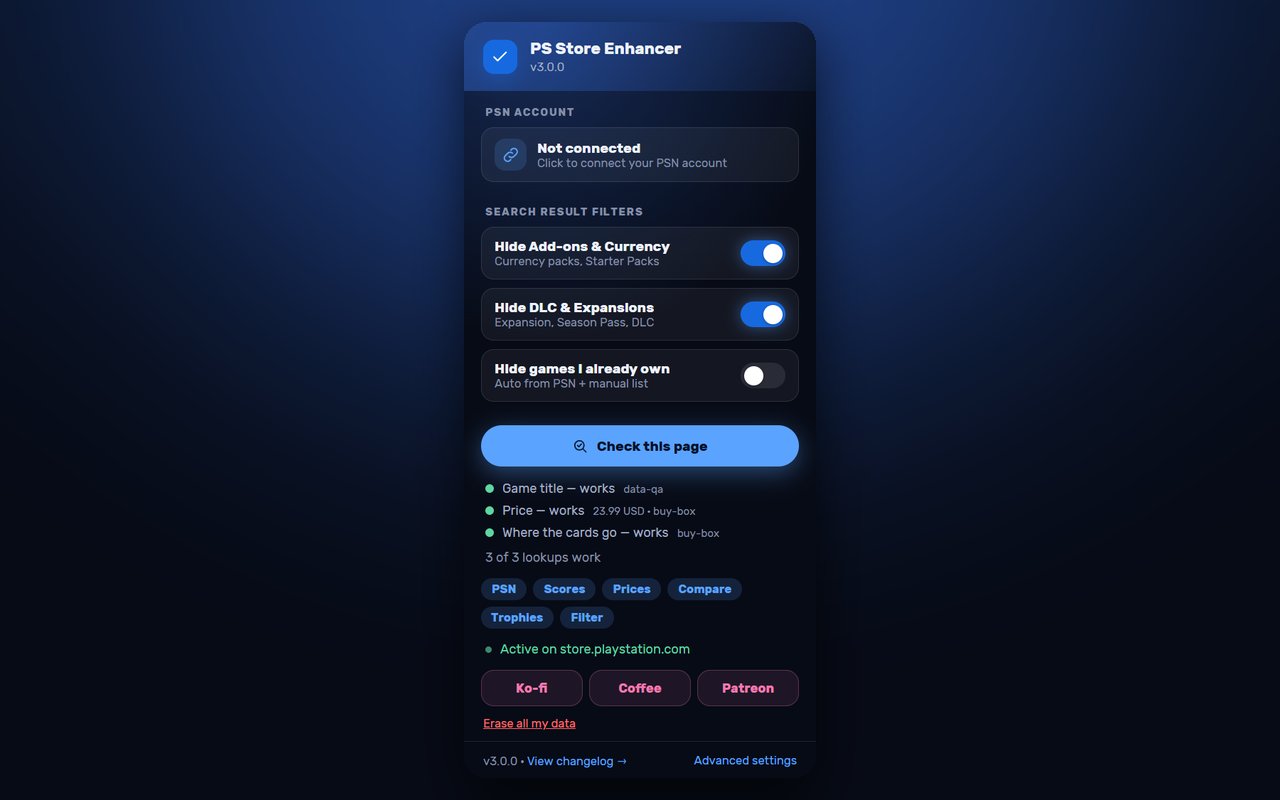
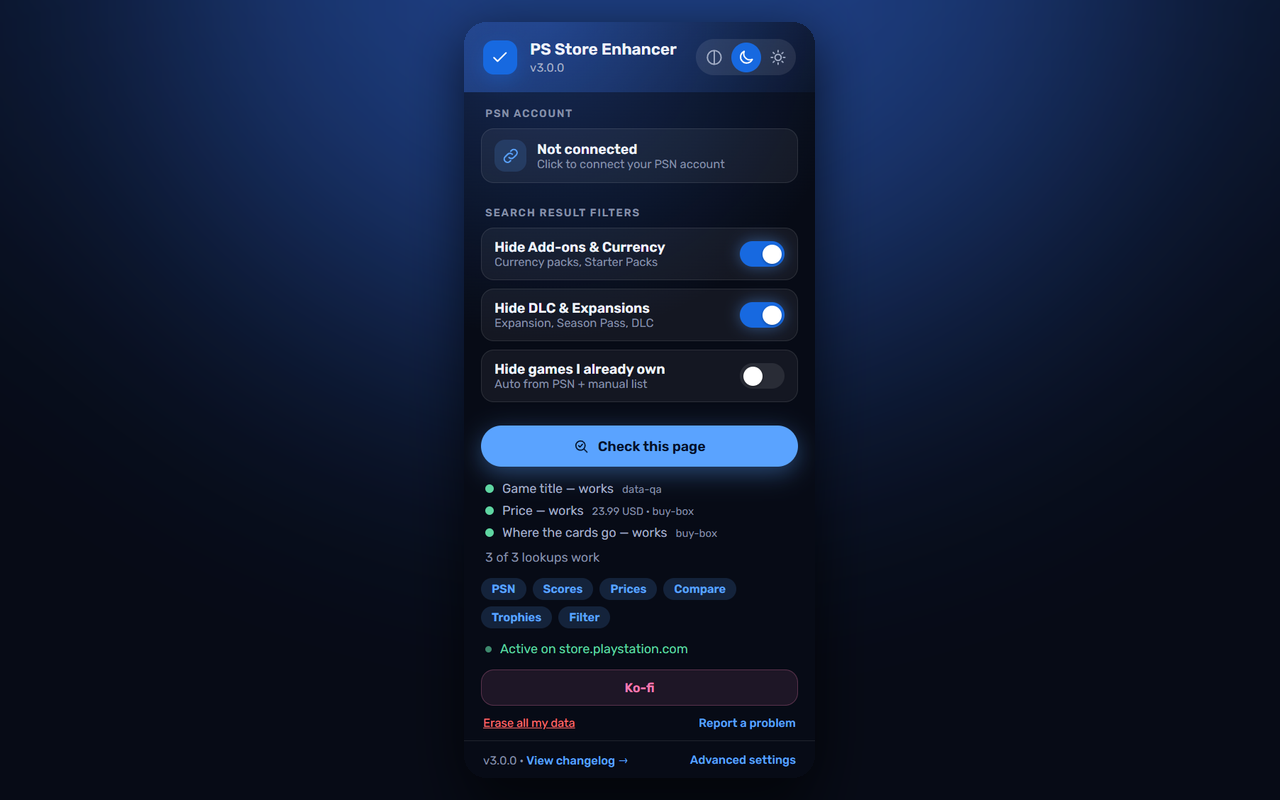
Store assets: real captures with the theme switch and the sale countdown; new promo tiles and og-image
Product page and popup screenshots (EN + HE, account menu hidden) retaken after the last UI changes. The promo
tiles and the website's og-image are redrawn in the new look around two real captures kept in assets/promo/src,
so gen_promo.py is reproducible; the old ones moved to archive/assets-pre-v3.0.0-redesign/.

diff --git a/scripts/generate-assets/gen_promo.py b/scripts/generate-assets/gen_promo.py
@@ -1,3 +1,9 @@
+"""Promo tiles and the website's og-image in the "Midnight Glass" look.
+
+The two pictures on the right are real captures of the extension (assets/promo/src/card-en.png: the Price
+Insight card on a store page; popup-en.png: the toolbar popup), so retake those two when the UI changes.
+Run from the repo root:  python scripts/generate-assets/gen_promo.py
+"""
 import sys
 import os
 ROOT = os.path.dirname(os.path.dirname(os.path.dirname(os.path.abspath(__file__))))
@@ -8,48 +14,84 @@ from PIL import ImageDraw, ImageFilter
 OUT = os.path.join(ROOT, "dist", "asset-drafts", "promo")
 os.makedirs(OUT, exist_ok=True)
 ICON_PATH = os.path.join(ROOT, "extension", "icons", "icon128.png")
+SRC = os.path.join(ROOT, "assets", "promo", "src")
+
+NAVY_BG = (7, 11, 22)       # the popup's deep navy
+GLOW = (36, 78, 168)
 
 
-def bg_with_glow(w, h):
-    canvas = new_canvas(w, h, INK)
+def backdrop(w, h):
+    """Deep navy with one soft blue glow behind the pictures (top right), like the popup and settings page."""
+    base = Image.new("RGB", (w * SS, h * SS), NAVY_BG)
+    glow = Image.new("RGB", (w * SS, h * SS), NAVY_BG)
+    d = ImageDraw.Draw(glow)
+    d.ellipse([w * SS * 0.52, -h * SS * 0.7, w * SS * 1.25, h * SS * 0.75], fill=GLOW)
+    glow = glow.filter(ImageFilter.GaussianBlur(w * SS * 0.07))
+    return Image.blend(base, glow, 0.9)
+
+
+def shot(name, height, radius=22):
+    """A real capture, scaled to `height` css px, rounded, with its own soft shadow. Returns (rgba image at SS, w, h)."""
+    im = Image.open(os.path.join(SRC, name)).convert("RGB")
+    h = height * SS
+    w = round(im.width * h / im.height)
+    im = im.resize((w, h), Image.LANCZOS)
+    mask = Image.new("L", (w, h), 0)
+    ImageDraw.Draw(mask).rounded_rectangle([0, 0, w - 1, h - 1], radius=radius * SS, fill=255)
+    out = Image.new("RGBA", (w, h), (0, 0, 0, 0))
+    out.paste(im, (0, 0), mask)
+    return out
+
+
+def place(canvas, pic, x, y):
+    """Paste `pic` at css (x, y) with a drop shadow."""
+    w, h = pic.size
+    shadow = Image.new("RGBA", canvas.size, (0, 0, 0, 0))
+    ImageDraw.Draw(shadow).rounded_rectangle([x * SS, (y + 12) * SS, x * SS + w, (y + 12) * SS + h], radius=22 * SS, fill=(0, 0, 0, 190))
+    shadow = shadow.filter(ImageFilter.GaussianBlur(22 * SS))
+    canvas = Image.alpha_composite(canvas.convert("RGBA"), shadow)
+    canvas.alpha_composite(pic, (int(x * SS), int(y * SS)))
+    return canvas.convert("RGB")
+
+
+def icon_tile(canvas, x, y, size):
+    ic = Image.open(ICON_PATH).convert("RGBA").resize((size * SS, size * SS), Image.LANCZOS)
+    canvas = canvas.convert("RGBA")
+    glow = Image.new("RGBA", canvas.size, (0, 0, 0, 0))
+    ImageDraw.Draw(glow).rounded_rectangle([x * SS, (y + 8) * SS, (x + size) * SS, (y + size + 8) * SS], radius=size * SS * 0.24, fill=(23, 105, 224, 150))
+    glow = glow.filter(ImageFilter.GaussianBlur(14 * SS))
+    canvas = Image.alpha_composite(canvas, glow)
+    canvas.alpha_composite(ic, (int(x * SS), int(y * SS)))
+    return canvas.convert("RGB")
+
+
+def chips(canvas, items, x0, y0, max_x, size=13, pad=14, gap=10, h=32):
     d = ImageDraw.Draw(canvas, "RGBA")
-    # radial-ish glow blob top-right
-    glow = Image.new("RGBA", (w * SS, h * SS), (0, 0, 0, 0))
-    gd = ImageDraw.Draw(glow)
-    gd.ellipse([w * SS * 0.35, -h * SS * 0.6, w * SS * 1.5, h * SS * 0.9], fill=(0, 112, 209, 90))
-    glow = glow.filter(ImageFilter.GaussianBlur(w * SS * 0.06))
-    canvas = Image.alpha_composite(canvas.convert("RGBA"), glow).convert("RGB")
-    return canvas
+    x, y = x0, y0
+    f = font(F_BOLD, size)
+    for c in items:
+        cw = text_w(d, c, f) + pad * 2
+        if x + cw > max_x:
+            x, y = x0, y + h + gap
+        rrect(d, (x, y, x + cw, y + h), h / 2, fill=(90, 163, 255, 30), outline=(90, 163, 255, 80), width=1)
+        text(d, (x + cw / 2, y + h / 2), c, f, (143, 196, 255), anchor="mm")
+        x += cw + gap
+    return y + h
 
 
 def small_tile():
     W, H = 440, 280
-    canvas = bg_with_glow(W, H)
+    canvas = backdrop(W, H)
+    canvas = icon_tile(canvas, 26, 26, 64)
+    pop = shot("popup-en.png", 300, radius=18)
+    pop = pop.crop((0, 0, pop.width, 214 * SS))          # only the top of the popup peeks in from the right
+    canvas = place(canvas, pop, W - pop.width / SS + 12 - 20, 56)
     d = ImageDraw.Draw(canvas, "RGBA")
-
-    icon = Image.open(ICON_PATH).convert("RGBA").resize((84 * SS, 84 * SS), Image.LANCZOS)
-    canvas.paste(icon, (int(28 * SS), int(28 * SS)), icon)
-    d = ImageDraw.Draw(canvas, "RGBA")
-
-    text(d, (128, 34), "PS Store", font(F_BLACK, 32), WHITE)
-    text(d, (128, 68), "Enhancer", font(F_BLACK, 32), ACCENT)
-
-    text(d, (28, 138), "Real lowest prices · deals · trophies", font(F_BOLD, 15), TEXT_DIM)
-    text(d, (28, 160), "right on the PlayStation Store", font(F_BOLD, 15), TEXT_DIM)
-
-    # feature chips
-    chips = ["Cross-platform prices", "Wishlist alerts", "16 languages"]
-    cy = 198
-    cx = 28
-    for c in chips:
-        cw = text_w(d, c, font(F_BOLD, 11)) + 22
-        if cx + cw > W - 24:
-            cx = 28
-            cy += 32
-        rrect(d, (cx, cy, cx + cw, cy + 24), 12, fill=(77, 166, 255, 16), outline=(77, 166, 255, 55), width=1)
-        text(d, (cx + cw / 2, cy + 12), c, font(F_BOLD, 11), ACCENT, anchor="mm")
-        cx += cw + 8
-
+    text(d, (26, 104), "PS Store", font(F_BOLD, 30), WHITE)
+    text(d, (26, 138), "Enhancer", font(F_BOLD, 30), (90, 163, 255))
+    text(d, (26, 184), "Real lowest prices,", font(F_REG, 14), TEXT_DIM)
+    text(d, (26, 204), "deals and trophies", font(F_REG, 14), TEXT_DIM)
+    chips(canvas, ["16 languages", "Free"], 26, 238, 250, size=11, pad=11, gap=8, h=26)
     canvas = finish(canvas, W, H)
     canvas.save(f"{OUT}/promo-small-440x280.png")
     print("promo-small-440x280.png", canvas.size)
@@ -57,33 +99,22 @@ def small_tile():
 
 def marquee_tile():
     W, H = 1400, 560
-    canvas = bg_with_glow(W, H)
+    canvas = backdrop(W, H)
+    # the two real pictures, the card behind the popup
+    card = shot("card-en.png", 480)
+    pop = shot("popup-en.png", 480)
+    canvas = place(canvas, card, 800, 40)
+    canvas = place(canvas, pop, 800 + card.width / SS + 24, 40)
+    canvas = icon_tile(canvas, 84, 120, 96)
     d = ImageDraw.Draw(canvas, "RGBA")
-
-    icon = Image.open(ICON_PATH).convert("RGBA").resize((150 * SS, 150 * SS), Image.LANCZOS)
-    canvas.paste(icon, (int(90 * SS), int(150 * SS)), icon)
+    tx = 84
+    text(d, (tx, 236), "PS Store Enhancer", font(F_BOLD, 56), WHITE)
+    text(d, (tx, 306), "Smarter shopping for the PlayStation Store.", font(F_BOLD, 23), (200, 212, 232))
+    text(d, (tx, 342), "Real lowest-ever prices, cross-platform comparison, scores,", font(F_REG, 17), TEXT_DIM)
+    text(d, (tx, 368), "trophy info and wishlist alerts, right on the store page.", font(F_REG, 17), TEXT_DIM)
+    chips(canvas, ["Price history", "Cross-platform", "Review scores", "Trophies", "Wishlist alerts", "16 languages"], tx, 416, 760)
     d = ImageDraw.Draw(canvas, "RGBA")
-
-    tx = 280
-    text(d, (tx, 130), "PS Store Enhancer", font(F_BLACK, 56), WHITE)
-    text(d, (tx, 200), "Smarter shopping for the PlayStation Store.", font(F_BOLD, 24), TEXT_DIM)
-    text(d, (tx, 234), "Real lowest-ever prices, cross-platform comparison, scores,", font(F_REG, 18), TEXT_FAINT)
-    text(d, (tx, 260), "trophy info, wishlist alerts and live search — free.", font(F_REG, 18), TEXT_FAINT)
-
-    chips = ["Price Insight", "Cross-Platform", "Review Scores", "Trophies", "Wishlist Alerts", "Live Search", "16 Languages"]
-    cx = tx
-    cy = 320
-    for c in chips:
-        cw = text_w(d, c, font(F_BOLD, 13)) + 28
-        if cx + cw > W - 60:
-            cx = tx
-            cy += 44
-        rrect(d, (cx, cy, cx + cw, cy + 34), 17, fill=(77, 166, 255, 16), outline=(77, 166, 255, 55), width=1)
-        text(d, (cx + cw / 2, cy + 17), c, font(F_BOLD, 13), ACCENT, anchor="mm")
-        cx += cw + 12
-
-    text(d, (tx, H - 56), "Free & open-source · No tracking · store.playstation.com", font(F_REG, 14), TEXT_FAINT)
-
+    text(d, (tx, H - 44), "Free and open source · No tracking · Dark, light and high contrast", font(F_REG, 14), TEXT_FAINT)
     canvas = finish(canvas, W, H)
     canvas.save(f"{OUT}/promo-marquee-1400x560.png")
     print("promo-marquee-1400x560.png", canvas.size)

diff --git a/archive/README.md b/archive/README.md
@@ -20,7 +20,8 @@ assets-pre-v2.7.1/                 The v2.7.0 popup screenshots (EN + HE), ident
 assets-pre-v3.0.0/                 The v2.7.1 popup screenshots (EN + HE) and the website's
   screenshots/<lang>/  docs/assets/  popup image, from before "Check this page"
 assets-pre-v3.0.0-redesign/        The mockup screenshots of the older look (4 per language and the
-  screenshots/<lang>/  docs/assets/  website's 4), replaced by real captures of the new design
+  screenshots/<lang>/  docs/assets/  website's 4), the promo tiles and og-image, replaced by real
+  promo/                             captures of the new design
 ```
 
 v2.2.1, v2.2.2, v2.2.3, and v2.3.0 aren't archived as zips because they predate this repo's

diff --git a/scripts/generate-assets/README.md b/scripts/generate-assets/README.md
@@ -13,7 +13,7 @@ python scripts/generate-assets/gen_screenshots.py  # product page (EN + HE)
 python scripts/generate-assets/gen_screenshots2.py # live search suggestions (EN + HE)
 python scripts/generate-assets/gen_screenshots3.py # library & wishlist stats (EN + HE)
 python scripts/generate-assets/gen_popup.py        # toolbar popup (EN + HE)
-python scripts/generate-assets/gen_promo.py        # small tile + marquee tile
+python scripts/generate-assets/gen_promo.py        # small tile + marquee tile + og-image (needs assets/promo/src/*.png: two real captures)
 python scripts/generate-assets/gen_badges.py        # one badge per released version
 ```
 

diff --git a/archive/assets-pre-v3.0.0-redesign/README.md b/archive/assets-pre-v3.0.0-redesign/README.md
@@ -4,3 +4,5 @@ The store screenshots (EN + HE) and the website's four screenshots as they were 
 redesign: hand-drawn mockups of the older look (the 4th was a 640x400 mockup). The new ones are real captures of
 the extension running in Chrome on the real PlayStation Store, with sample data for the wishlist and the price
 history, scaled to 1280x800.
+
+Also here: the two promo tiles and the website's og-image of the older look (drawn, no screenshots in them).
